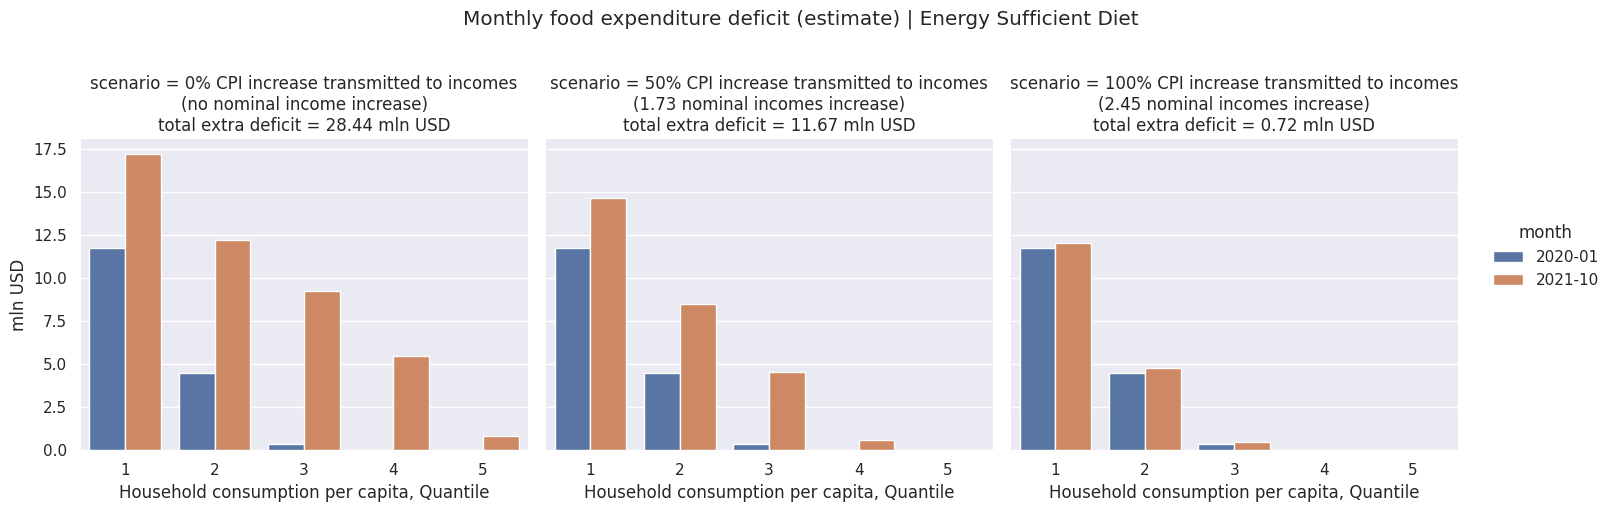
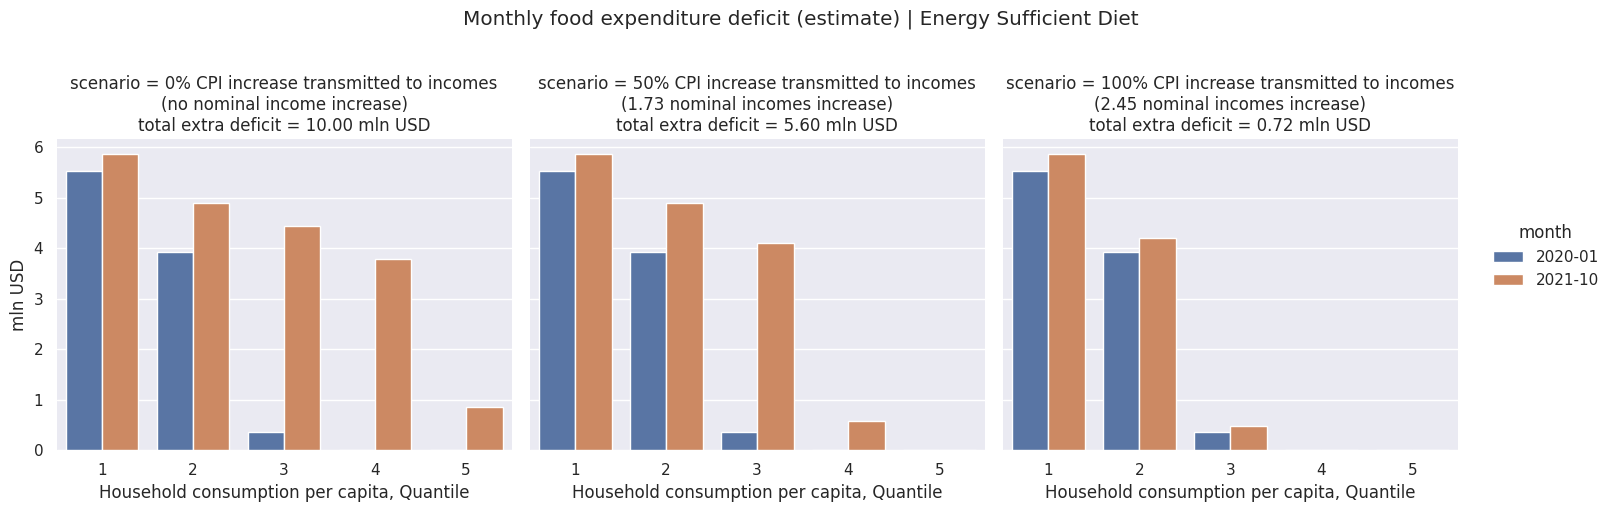
Updated plots

diff --git a/scripts/analyze_microdata.py b/scripts/analyze_microdata.py
@@ -96,10 +96,10 @@ def calculate_deficits(df, scenario_year=baseline_year, scenario_month=baseline_
         nonfood *= get_overall_cpi(scenario_year, scenario_month) / get_overall_cpi(baseline_year, baseline_month)
         budget *= nominal_income_rise
         suffix = f"{diet}_{scenario_year}_{scenario_month:02d}_income_rise_{nominal_income_rise:.2f}"
-        df[f"deficit_{suffix}"] = np.maximum(
+        df[f"deficit_{suffix}"] = np.minimum(food_cost, np.maximum(
             nonfood + food_cost - budget,
             0,
-        ) * df["hh_size"]
+        )) * df["hh_size"]
         df[f"target_population_{suffix}"] = np.where(df[f"deficit_{suffix}"] > 0, df["hh_size"], 0)
         # For numerical reasons
         df[f"deficit_{suffix}"] += 1e-12
